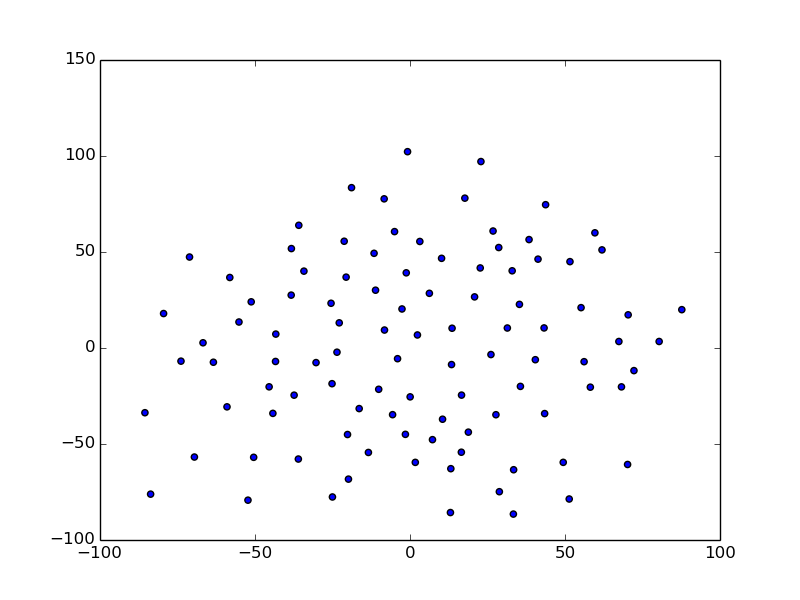
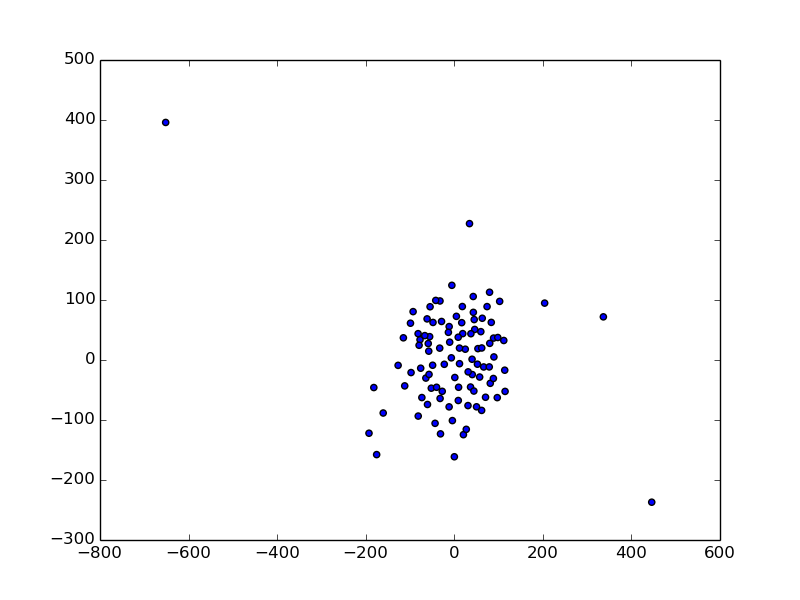
what is up with the figure saving? worked fine the other day

diff --git a/train_model.py b/train_model.py
@@ -285,7 +285,7 @@ def train_siamese():
                 
                 
             if i% FLAGS.checkpoint_freq == 0:
-                saver.save(FLAGS.checkpoint_dir +"/siamese/"+  "checkpoint.ckpt")
+                saver.save(sess, FLAGS.checkpoint_dir +"/siamese/"+  "checkpoint.ckpt")
                 lo, flatsave, fc1save, fc2save = sess.run(cnet.inference(x_in), feed_dict={x_in:xbat, y_true: ybat, x_anchor:ancbat})
                 
                 loa, flatsavea, fc1savea, fc2savea = sess.run(cnet.inference(x_anchor), feed_dict={x_in:xbat, y_true: ybat, x_anchor:ancbat})
@@ -361,7 +361,7 @@ def feature_extraction():
     
     
     sess = tf.Session()
-    ts = TSNE(n_components =2, perplexity=5)
+    ts = TSNE(n_components =2, perplexity=10)
 
     if FLAGS.train_model == 'linear':
         loader.restore(sess, FLAGS.checkpoint_dir + "/ConvNet/" + "checkpoint.ckpt" )
@@ -381,11 +381,11 @@ def feature_extraction():
     
 
     plot1 = plt.scatter(ff[:,0],ff[:,1])
-    plt.savefig("flatten.png")
+    plot1.savefig("flatten.png")
     plot2 = plt.scatter(f1[:,0],f1[:,1])
-    plt.savefig("fc1.png")
+    plot2.savefig("fc1.png")
     plot3 = plt.scatter(f2[:,0], f2[:,1])
-    plt.savefig("fc2.png")
+    plot3.savefig("fc2.png")
     
     
 
